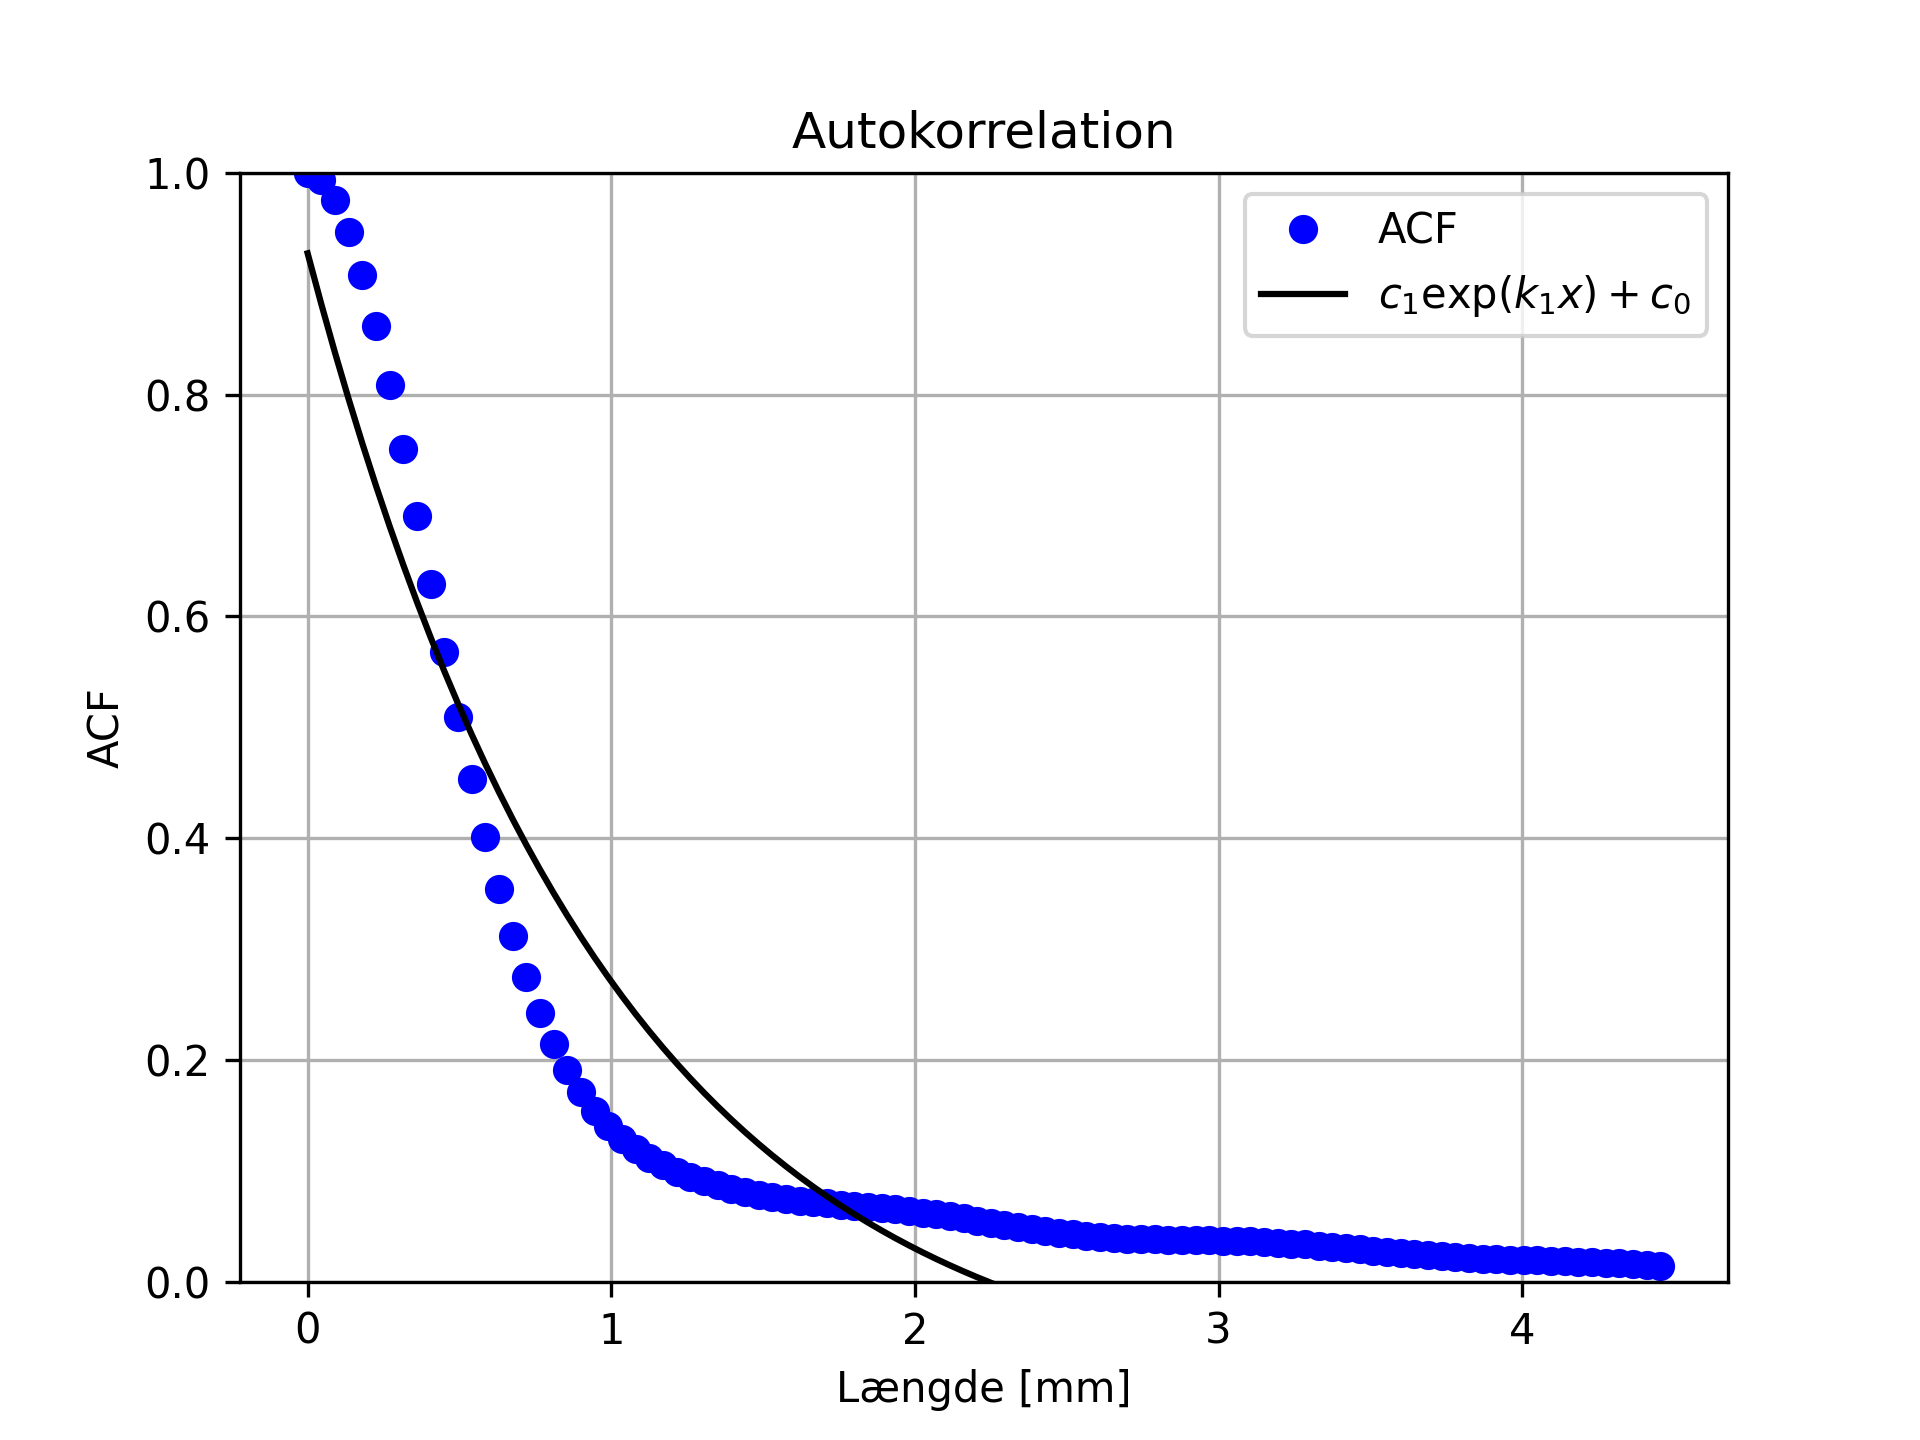
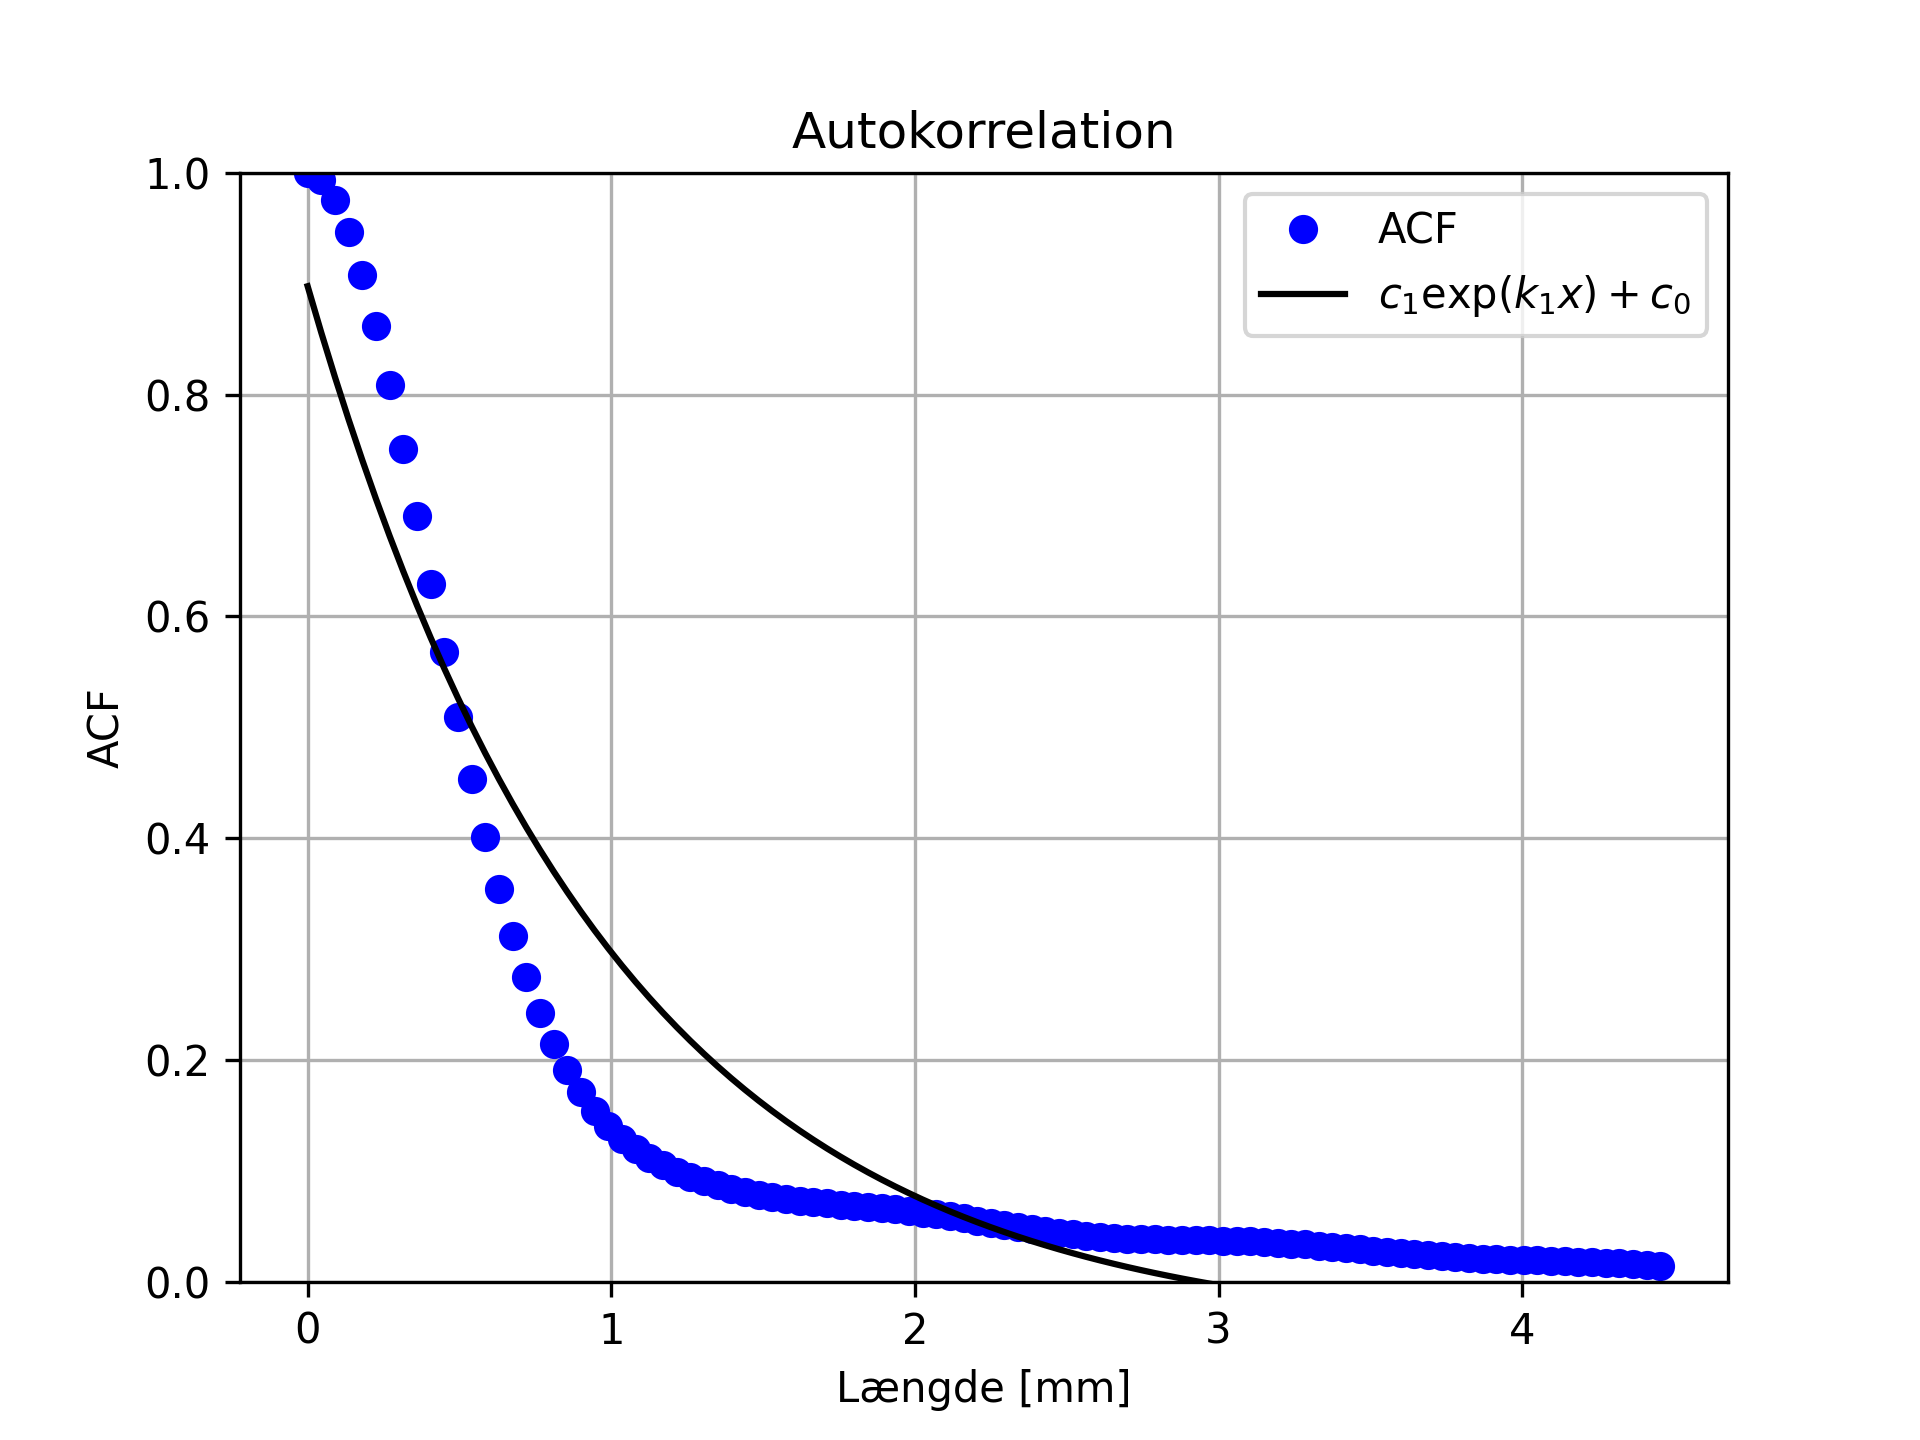
updated plot

diff --git a/plot_acf.py b/plot_acf.py
@@ -75,11 +75,12 @@ def lsm(x,y, m=[0.1, 1, -1], niter=50, func=1):
         delta = np.linalg.lstsq(G,yz,rcond=None)[0]
         #print(np.shape(delta))
         m = m + np.transpose(delta)[0]
-        res = np.transpose(delta).dot(delta)
-        print(f"Residuals for {i}: {res}")
+        res = np.transpose(delta).dot(delta)[0][0]
+        #print(f"Residuals for {i}: {res}")
         if res < 1e-8:
             break
         
+    print(m)
     return m
 
 
@@ -95,13 +96,13 @@ def dfd0(m,x):
     return np.ones(np.size(x))
 
 def df1d1(m,x):
-    return np.exp(m[1]*x)
+    return np.exp(m[2]*x)
 
 def df1d2(m,x):
-    return m[0]*m[1]*np.exp(m[1]*x)
+    return m[0]*m[1]*np.exp(m[2]*x)
 
 def df2d1(m,x):
-    return (x + m[1] -m[2])*(x - m[1] -m[2])/(m[1]**3) * func2([0,m[1],m[2]],x)
+    return ((x - m[2])**2 - m[1]**2)/(m[1]**3) * func2([0,m[1],m[2]],x)
 
 def df2d2(m,x):
     return (x-m[2])/(m[1]**2) * func2([0,m[1],m[2]],x)
